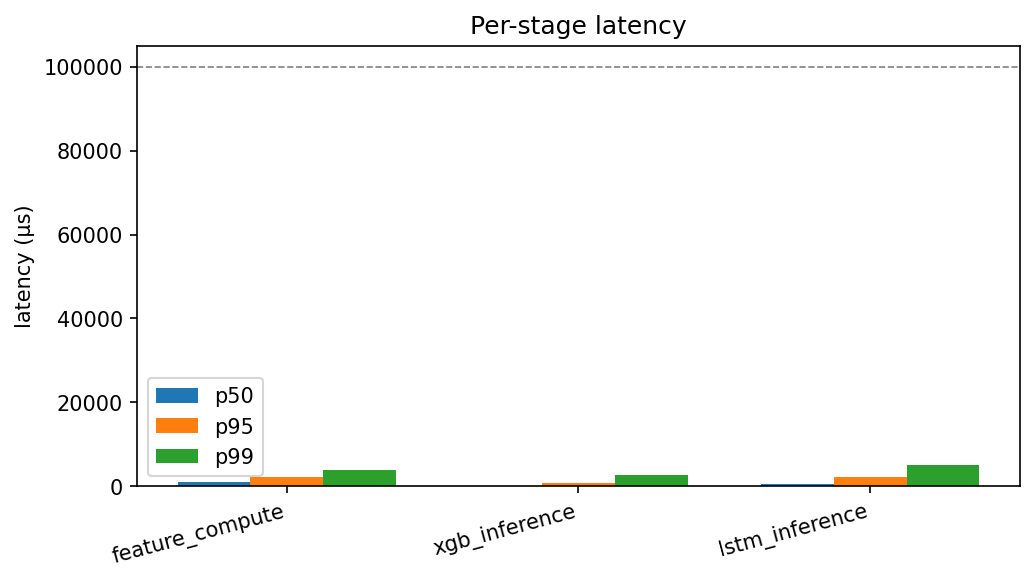
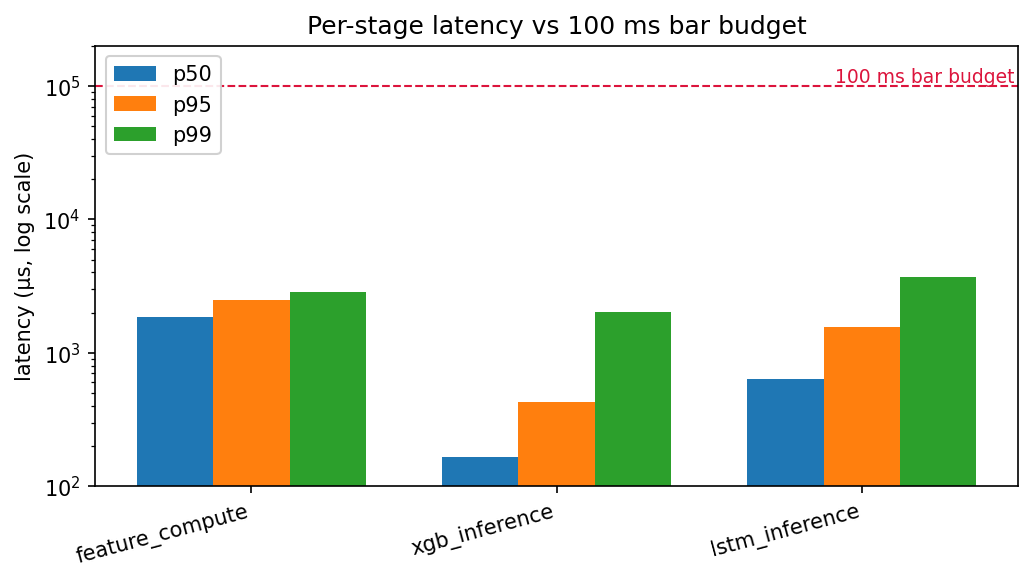
fix: refresh latency benchmarks and make the latency figure readable
Re-ran benchmark_latency.py with far higher sampling (200 iters for feature
compute, 10k for each inference path, up from 50/500) and updated the REPORT.md
table to match. The better-sampled run flips the conclusion: LSTM inference is
now the slowest stage at p99 (3,674 us) rather than feature compute (2,830 us),
so the surrounding prose was rewritten. Every stage sits under 4 ms p99 against
the 100 ms bar budget.

fig06 plotted microsecond-scale bars on a linear axis scaled to the 100,000 us
budget line, which flattened all three stages onto the baseline and hid the
p50/p95/p99 spread entirely. Switched to a log y-axis with an annotated budget
line so the per-stage comparison is actually legible.

Also renormalize class probabilities in float64 before log_loss. Model outputs
are float32 and rows sum to 1 only to ~1e-7, which tripped sklearn tolerance
and emitted nine "y_prob values do not sum to one" warnings per run. Metrics
are numerically unchanged; the fix only silences the noise. The same block was
duplicated in summarize_walkforward.py and build_results_figures.py, so both
were patched.

Tests: 22 passed.

diff --git a/scripts/build_results_figures.py b/scripts/build_results_figures.py
@@ -46,7 +46,10 @@ def fold_metrics(g: pd.DataFrame) -> dict:
     y_cls = _signed_to_cls(g["y_true"].to_numpy())
     probs = np.column_stack(
         [g["prob_down"].to_numpy(), g["prob_zero"].to_numpy(), g["prob_up"].to_numpy()]
-    )
+    ).astype(np.float64)
+    # Model outputs are float32, so rows sum to 1 only to ~1e-7. Renormalize in
+    # float64 so log_loss does not warn about probabilities not summing to one.
+    probs /= probs.sum(axis=1, keepdims=True)
     y_pred = probs.argmax(axis=1)
     mask = y_cls != 1
     if mask.sum() >= 2 and len(np.unique(y_cls[mask])) == 2:
@@ -242,10 +245,23 @@ def fig06_inference_p99(out: Path = FIG_DIR / "fig06_inference_p99.png") -> None
     ax.bar(x + w, lat["p99_us"], width=w, label="p99")
     ax.set_xticks(x)
     ax.set_xticklabels(lat["stage"], rotation=15, ha="right")
-    ax.set_ylabel("latency (µs)")
-    ax.set_title("Per-stage latency")
-    ax.axhline(100_000, color="gray", linestyle="--", linewidth=0.8)
-    ax.legend()
+    ax.set_ylabel("latency (µs, log scale)")
+    ax.set_title("Per-stage latency vs 100 ms bar budget")
+    # Log scale: stages run ~1e2-1e3 us against a 1e5 us budget, so a linear
+    # axis flattens every bar to the baseline and hides the p50/p95/p99 spread.
+    ax.set_yscale("log")
+    ax.set_ylim(100, 200_000)
+    ax.axhline(100_000, color="crimson", linestyle="--", linewidth=1.0)
+    ax.text(
+        len(lat) - 0.5,
+        100_000,
+        " 100 ms bar budget",
+        color="crimson",
+        va="bottom",
+        ha="right",
+        fontsize=9,
+    )
+    ax.legend(loc="upper left", framealpha=0.9)
     fig.tight_layout()
     out.parent.mkdir(parents=True, exist_ok=True)
     fig.savefig(out, dpi=150, bbox_inches="tight")

diff --git a/scripts/summarize_walkforward.py b/scripts/summarize_walkforward.py
@@ -43,7 +43,10 @@ def _fold_metrics_from_probs(g: pd.DataFrame) -> dict[str, float]:
     y_cls = _signed_to_cls(g["y_true"].to_numpy())
     probs = np.column_stack(
         [g["prob_down"].to_numpy(), g["prob_zero"].to_numpy(), g["prob_up"].to_numpy()]
-    )
+    ).astype(np.float64)
+    # Model outputs are float32, so rows sum to 1 only to ~1e-7. Renormalize in
+    # float64 so log_loss does not warn about probabilities not summing to one.
+    probs /= probs.sum(axis=1, keepdims=True)
     y_pred = probs.argmax(axis=1)
     mask = y_cls != 1
     if mask.sum() >= 2 and len(np.unique(y_cls[mask])) == 2:

diff --git a/REPORT.md b/REPORT.md
@@ -137,13 +137,13 @@ See `notebooks/figures/fig04_equity_curves.png` and `fig05_latency_heatmap.png`.
 
 Measured on project hardware (CPU). Bar budget = **100 ms** = 100,000 µs.
 
-| Stage | p50 (µs) | p95 (µs) | p99 (µs) |
-|---|---:|---:|---:|
-| Feature compute | 1,065 | 2,237 | **3,897** |
-| XGB inference | 156 | 661 | 2,564 |
-| LSTM inference | 497 | 2,270 | 5,141 |
+| Stage | p50 (µs) | p95 (µs) | p99 (µs) | Iters |
+|---|---:|---:|---:|---:|
+| Feature compute | 1,843 | 2,492 | **2,830** | 200 |
+| XGB inference | 166 | 428 | 2,036 | 10,000 |
+| LSTM inference | 633 | 1,573 | **3,674** | 10,000 |
 
-Feature compute is the largest stage at p99 (~3.9% of bar budget). LSTM inference is ~2× slower than XGB at p99. All stages are deployable at 100 ms; **alpha, not compute, is the binding constraint**.
+Every stage sits far inside the bar budget: the slowest (LSTM inference) uses **3.7% of the bar at p99**, and feature compute — the heaviest stage at p50 — costs 2.8%. LSTM inference is ~1.8× slower than XGB at p99. All stages are comfortably deployable at 100 ms; **alpha, not compute, is the binding constraint**.
 
 ## What I'd do next
 
